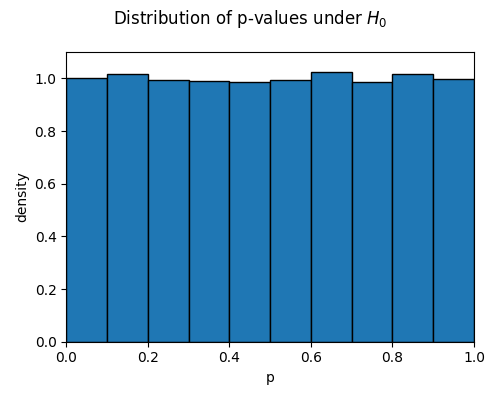
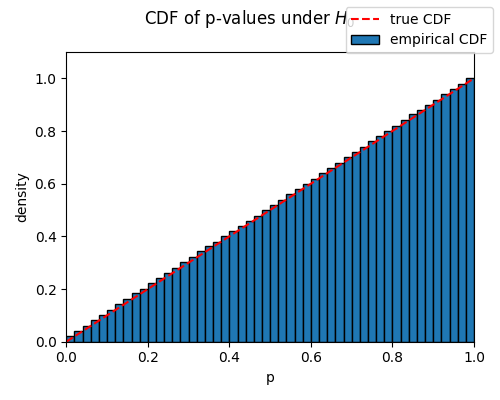
Plot true and empirical CDF of pvalues under H0 rather than PDF

diff --git a/main.py b/main.py
@@ -14,19 +14,24 @@ figure_2 = './figures/pvalues_h1.png'
 figures_3 = ['./figures/FWER_bonferroni.png', './figures/FWER_holm_bonferroni.png', './figures/FWER_hochberg.png', './figures/FWER_benjamini_hochberg.png']
 figures_4 = ['./figures/FDR_bonferroni.png', './figures/FDR_holm_bonferroni.png', './figures/FDR_hochberg.png', './figures/FDR_benjamini_hochberg.png']
 
-if not os.path.isfile(figure_1):
+if os.path.isfile(figure_1):
     m0 = 10000
     mu0 = 0
     mu0_ = np.ones(m0) * mu0
+    interval = np.linspace(0, 1, 1001)
+    true_dist = interval
+
     fig, ax = plt.subplots(1, 1, figsize=(5, 4))
     t_statistics = get_t_statistics_z_test(m0, 1, 1, mu0_, mu0)
     pvalues = get_pvalues_z_test(t_statistics).squeeze()
-    ax.hist(pvalues, bins=10, range=(0, 1), density=True, edgecolor='black')
+    ax.plot(interval, true_dist, color='red', label='true CDF', linewidth=1.5, linestyle='dashed')
+    ax.hist(pvalues, bins=50, range=(0, 1), density=True, cumulative=True, edgecolor='black', label='empirical CDF')
     ax.set_xlabel('p')
     ax.set_ylabel('density')
     ax.set_xlim(0, 1)
     ax.set_ylim(0, 1.1)
-    fig.suptitle('Distribution of p-values under $H_0$')
+    fig.suptitle('CDF of p-values under $H_0$')
+    fig.legend()
     fig.tight_layout()
     fig.savefig(figure_1)
 
